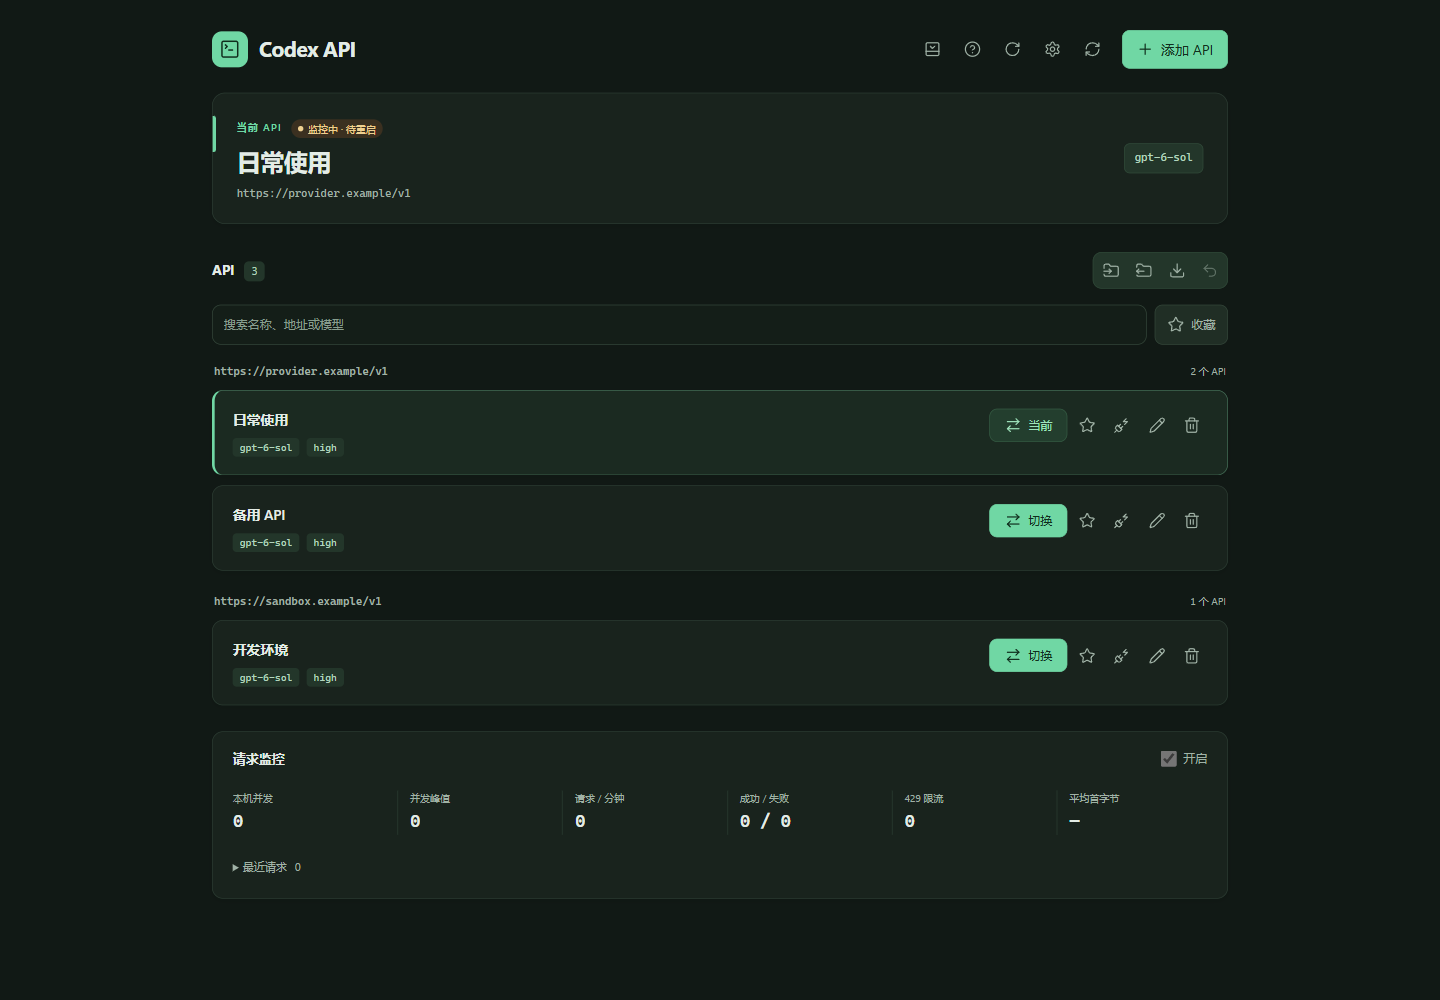
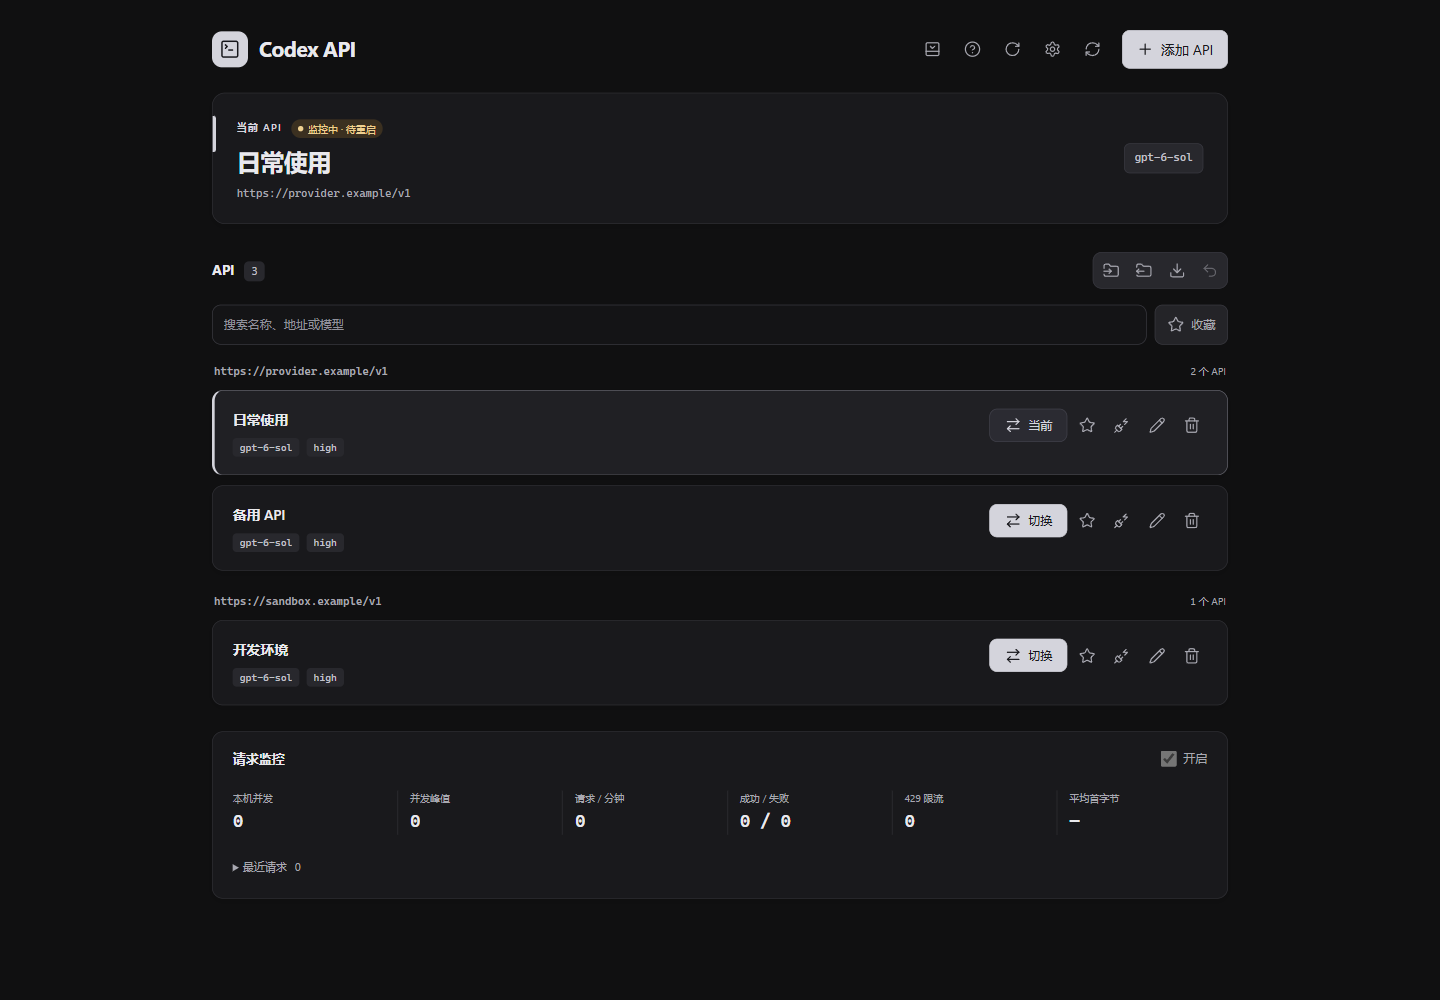
Use neutral black and charcoal for the dark appearance

diff --git a/public/visual-polish.css b/public/visual-polish.css
@@ -70,56 +70,56 @@ button:focus-visible, input:focus-visible, select:focus-visible, summary:focus-v
   button, input, select, .profile, .quick-guide { transition: none; animation: none; }
 }
 
-/* Dark appearance: quiet graphite surfaces with the same green action hierarchy. */
+/* Dark appearance: neutral black and charcoal surfaces with pale controls. */
 html[data-theme="dark"] {
   color-scheme: dark;
-  --ink: #e3ece6;
-  --muted: #a0b2a6;
-  --line: #2c3d33;
-  --accent: #70d7a4;
-  --bg: #111915;
+  --ink: #e9e9ed;
+  --muted: #a8a8b1;
+  --line: #303035;
+  --accent: #d4d4dc;
+  --bg: #101011;
   --red: #f39589;
-  --surface: #19231d;
-  --surface-raised: #202e25;
-  --surface-input: #141e18;
+  --surface: #19191c;
+  --surface-raised: #242428;
+  --surface-input: #141416;
 }
 [data-theme="dark"] body { background: var(--bg); color: var(--ink); }
 [data-theme="dark"] :is(.current, .profile, main > .monitor-section, dialog, .quick-guide, .restart-reminder, .update-banner) {
-  background: var(--surface); color: var(--ink); border-color: var(--line); box-shadow: 0 2px 8px #00000014;
+  background: var(--surface); color: var(--ink); border-color: var(--line); box-shadow: 0 2px 8px #00000024;
 }
-[data-theme="dark"] .profile:hover { border-color: #46634f; }
-[data-theme="dark"] .profile.active { background: #1b2a21; border-color: #47745b; border-left-color: var(--accent); }
+[data-theme="dark"] .profile:hover { border-color: #505058; }
+[data-theme="dark"] .profile.active { background: #202024; border-color: #676770; border-left-color: var(--accent); }
 [data-theme="dark"] :is(.profile-title h3, .metric strong, #guide-status) { color: var(--ink); }
 [data-theme="dark"] :is(.mono, .profile-group-heading h3, .profile-group-count, .metric span, .usage-time, .usage-message, .request-model, .monitor-toggle, .quick-guide p, .restart-reminder > p, .update-banner > p, #current-url) { color: var(--muted); }
-[data-theme="dark"] button { background: var(--surface-raised); border-color: #35483b; color: var(--ink); box-shadow: none; }
-[data-theme="dark"] button:not(:disabled):hover { background: #2a3e30; border-color: #4b6955; color: var(--ink); }
-[data-theme="dark"] button.primary { background: #70d7a4; border-color: #70d7a4; color: #102e1d; }
-[data-theme="dark"] button.primary:not(:disabled):hover { background: #8ae5b8; border-color: #8ae5b8; color: #102e1d; }
+[data-theme="dark"] button { background: var(--surface-raised); border-color: #3b3b42; color: var(--ink); box-shadow: none; }
+[data-theme="dark"] button:not(:disabled):hover { background: #303036; border-color: #60606a; color: var(--ink); }
+[data-theme="dark"] button.primary { background: #d4d4dc; border-color: #d4d4dc; color: #17171b; }
+[data-theme="dark"] button.primary:not(:disabled):hover { background: #f1f1f5; border-color: #f1f1f5; color: #17171b; }
 [data-theme="dark"] :is(button.plain, .toolbar > .icon, .profile-actions .icon, .usage-right button, .dialog-heading .icon, .restart-card-heading .icon) { background: transparent; border-color: transparent; color: var(--muted); }
-[data-theme="dark"] :is(.toolbar > .icon, .profile-actions .icon, .secondary-actions .icon, .usage-right .icon, .dialog-heading .icon):not(:disabled):hover { background: #2a3e30; border-color: transparent; color: var(--accent); }
-[data-theme="dark"] :is(.secondary-actions, .profile-meta span, #current-model, .list-heading h2 span, .model-picker) { background: #23362a; color: #b2d4be; border-color: #314c3a; }
-[data-theme="dark"] .brand-icon { background: #70d7a4; color: #102e1d; box-shadow: none; }
-[data-theme="dark"] :is(.connection-status, .badge, .editor-guide, .delete-undo) { background: #233e2e; color: #9fe3bb; border-color: #355d44; }
+[data-theme="dark"] :is(.toolbar > .icon, .profile-actions .icon, .secondary-actions .icon, .usage-right .icon, .dialog-heading .icon):not(:disabled):hover { background: #303036; border-color: transparent; color: var(--accent); }
+[data-theme="dark"] :is(.secondary-actions, .profile-meta span, #current-model, .list-heading h2 span, .model-picker) { background: #28282d; color: #c1c1ca; border-color: #3a3a42; }
+[data-theme="dark"] .brand-icon { background: #d4d4dc; color: #17171b; box-shadow: none; }
+[data-theme="dark"] :is(.connection-status, .badge, .editor-guide, .delete-undo) { background: #2b2b32; color: #d5d5de; border-color: #42424c; }
 [data-theme="dark"] :is(.connection-status.pending, .badge.empty, .transfer-warning, .notice.warning) { background: #3b3020; color: #efd090; border-color: #665236; }
 [data-theme="dark"] :is(#favorites-only[aria-pressed="true"], .profile-actions .favorite-button.selected) { background: #3a301d; color: #efd090; border-color: #665236; }
 [data-theme="dark"] .profile-actions .favorite-button.selected:hover { background: #4a3b23; color: #ffe1a2; }
-[data-theme="dark"] :is(input, select, .key-input, .api-filters input) { background: var(--surface-input); color: var(--ink); border-color: #35483b; }
+[data-theme="dark"] :is(input, select, .key-input, .api-filters input) { background: var(--surface-input); color: var(--ink); border-color: #3b3b42; }
 [data-theme="dark"] .key-input input { background: transparent; }
-[data-theme="dark"] :is(input:focus, select:focus, .key-input:focus-within) { background: #1c2b21; border-color: #70b58c; }
-[data-theme="dark"] input::placeholder { color: #889e8e; }
-[data-theme="dark"] #favorites-only { color: var(--muted); border-color: #35483b; }
+[data-theme="dark"] :is(input:focus, select:focus, .key-input:focus-within) { background: #202024; border-color: #8b8b98; }
+[data-theme="dark"] input::placeholder { color: #91919b; }
+[data-theme="dark"] #favorites-only { color: var(--muted); border-color: #3b3b42; }
 [data-theme="dark"] #favorites-only[aria-pressed="true"] { color: #efd090; border-color: #665236; }
-[data-theme="dark"] .profile.active .switch-button:disabled { background: #233e2e; border-color: #355d44; color: #9fe3bb; opacity: 1; }
+[data-theme="dark"] .profile.active .switch-button:disabled { background: #2b2b32; border-color: #42424c; color: #d5d5de; opacity: 1; }
 [data-theme="dark"] :is(.usage, .connection-result, .dialog-actions, .options, .guide-tips, .diagnostic-control, .storage-path, .transfer-list, .transfer-row, .request-table td, .monitor-stats .metric) { border-color: var(--line); }
-[data-theme="dark"] .request-table th { background: #223128; color: #b2c6b8; }
-[data-theme="dark"] :is(.request-table tbody tr:hover, .transfer-row:hover) { background: #23352a; }
-[data-theme="dark"] .empty-state { background: #162019; border-color: #415a49; color: var(--muted); }
-[data-theme="dark"] .notice { background: #233e2e; border-color: #355d44; color: #b2e9c6; }
+[data-theme="dark"] .request-table th { background: #242428; color: #b9b9c4; }
+[data-theme="dark"] :is(.request-table tbody tr:hover, .transfer-row:hover) { background: #2b2b30; }
+[data-theme="dark"] .empty-state { background: #161619; border-color: #484850; color: var(--muted); }
+[data-theme="dark"] .notice { background: #2b2b32; border-color: #42424c; color: #d4d4de; }
 [data-theme="dark"] .notice.error { background: #3c2824; border-color: #6a443c; color: var(--red); }
 [data-theme="dark"] :is(.usage-message.error, .connection-result.failed, .model-notice.error, .request-error) { color: var(--red); }
 [data-theme="dark"] :is(.connection-result, .request-ok) { color: var(--accent); }
 [data-theme="dark"] .request-pending { color: #efd090; }
 [data-theme="dark"] :is(button.danger, .profile-actions .icon[title^="删除"]:hover) { color: var(--red); border-color: #6a443c; background: #3c2824; }
-[data-theme="dark"] dialog::backdrop { background: #050d09b3; }
-[data-theme="dark"] .quick-guide .guide-steps li { background: #354a3d; }
+[data-theme="dark"] dialog::backdrop { background: #050507b3; }
+[data-theme="dark"] .quick-guide .guide-steps li { background: #3e3e47; }
 [data-theme="dark"] .quick-guide .guide-steps :is(li.guide-current, li.guide-complete) { background: var(--accent); }
